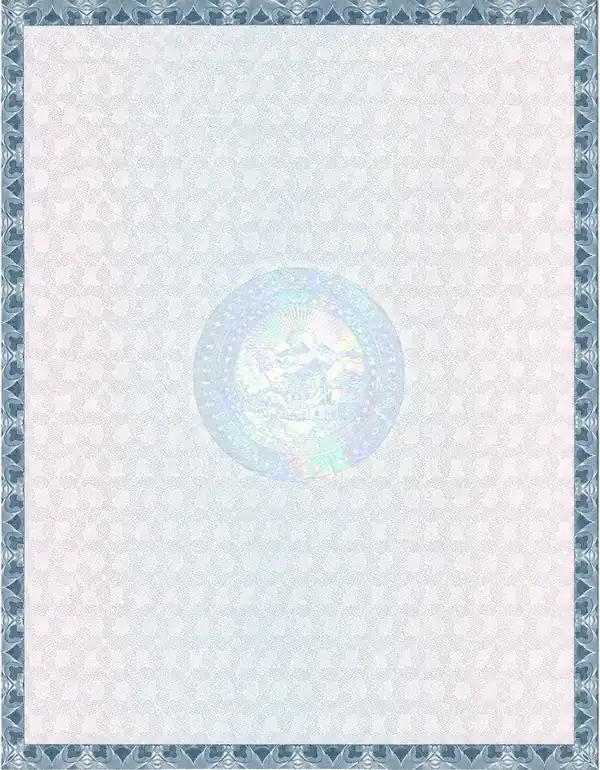
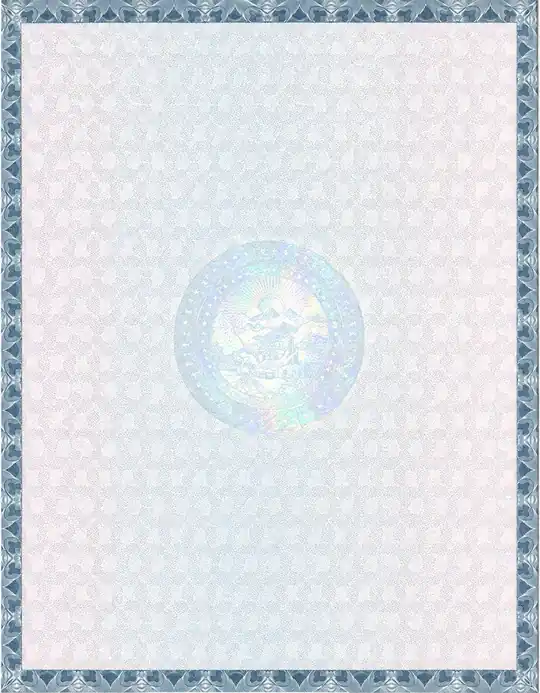
Certificate typography pass: Malevice body font, DM Sans site-wide, bigger signatures, seal layering/opacity
- Malevice Inkbleed for all certificate text except the signature itself
  (stays Dalton White), self-hosted + subset to used glyphs (15KB -> 11KB)
- DM Sans self-hosted for the form/site UI (consolidated to 400+600 only,
  dropped the unused 500 weight - button reuses 600/semibold)
- Signature text size nearly doubled (16/19px -> 28/34px) with truncate
  safety for long names, 10px breathing room above/below added
- Seal now renders below the text layer (was on top, now sits between the
  certificate body and the overlay) at 65% opacity
- Signature caption contrast fixed (slate-400 -> 500) and bottom margin
  increased so it clears the ornate border
- Recompressed certificate-bg further (56KB -> 36KB) to offset the two new
  always-loaded fonts and stay under the page-weight budget (488KB total)

Changed region(s): [[0.0, 0.9697, 0.0296, 1.0]]

diff --git a/src/components/CertificateOverlay.tsx b/src/components/CertificateOverlay.tsx
@@ -24,7 +24,10 @@ export const CertificateOverlay: React.FC<{ values: Values; certKey?: string; sh
   const brideSignature = v('bride-signature');
 
   return (
-    <div className="pointer-events-none absolute inset-0 flex select-none flex-col px-[8%] pt-[10%] pb-[5%] font-serif">
+    <div
+      className="pointer-events-none absolute inset-0 flex select-none flex-col px-[8%] pt-[10%] pb-[12%]"
+      style={{ fontFamily: "'Malevice Inkbleed', serif" }}
+    >
       {certKey && (
         <p className="absolute right-[6%] top-[4%] font-mono text-[6.5px] tracking-wide text-slate-400 sm:text-[7.5px]">
           No. {certKey}
@@ -78,25 +81,25 @@ export const CertificateOverlay: React.FC<{ values: Values; certKey?: string; sh
         </div>
 
         <div className="grid grid-cols-2 gap-x-[6%] text-left">
-          <div className="border-t border-slate-400 pt-[4px]">
+          <div className="border-t border-slate-400 pt-[10px]">
             <p
-              className={groomSignature?.trim() ? 'text-[16px] leading-[1.4] text-slate-800 sm:text-[19px]' : 'text-[10px] italic text-slate-300 sm:text-[12px]'}
+              className={groomSignature?.trim() ? 'truncate text-[28px] leading-[1.3] text-slate-800 sm:text-[34px]' : 'text-[10px] italic text-slate-300 sm:text-[12px]'}
               style={groomSignature?.trim() ? { fontFamily: "'Dalton White', cursive" } : undefined}
             >
               {groomSignature?.trim() || 'Groom signature'}
             </p>
-            <p className="mt-[3px] text-[7.5px] uppercase tracking-wide text-slate-400 sm:text-[8.5px]">
+            <p className="mt-[10px] text-[7.5px] uppercase tracking-wide text-slate-500 sm:text-[8.5px]">
               Signature of Groom
             </p>
           </div>
-          <div className="border-t border-slate-400 pt-[4px]">
+          <div className="border-t border-slate-400 pt-[10px]">
             <p
-              className={brideSignature?.trim() ? 'text-[16px] leading-[1.4] text-slate-800 sm:text-[19px]' : 'text-[10px] italic text-slate-300 sm:text-[12px]'}
+              className={brideSignature?.trim() ? 'truncate text-[28px] leading-[1.3] text-slate-800 sm:text-[34px]' : 'text-[10px] italic text-slate-300 sm:text-[12px]'}
               style={brideSignature?.trim() ? { fontFamily: "'Dalton White', cursive" } : undefined}
             >
               {brideSignature?.trim() || 'Bride signature'}
             </p>
-            <p className="mt-[3px] text-[7.5px] uppercase tracking-wide text-slate-400 sm:text-[8.5px]">
+            <p className="mt-[10px] text-[7.5px] uppercase tracking-wide text-slate-500 sm:text-[8.5px]">
               Signature of Bride
             </p>
           </div>

diff --git a/src/pages/CertificateViewPage.tsx b/src/pages/CertificateViewPage.tsx
@@ -49,7 +49,17 @@ export const CertificateViewPage: React.FC = () => {
           draggable={false}
           className="absolute inset-0 h-full w-full select-none object-contain"
         />
+        <img
+          src="/assets/seal.webp"
+          alt="Meridian registry seal"
+          draggable={false}
+          className="absolute left-1/2 top-1/2 h-24 w-24 select-none opacity-65 md:h-32 md:w-32"
+          style={{
+            transform: `translate(-50%, -50%) translate(${sealX}px, ${sealY}px) rotate(${cert.seal.rotation}deg) scale(${cert.seal.scale})`,
+          }}
+        />
         <div
+          className="pointer-events-none"
           style={{
             position: 'absolute',
             top: certificateRect.top,
@@ -64,15 +74,6 @@ export const CertificateViewPage: React.FC = () => {
             shareUrl={`${window.location.origin}/cert/id.${cert.id}`}
           />
         </div>
-        <img
-          src="/assets/seal.webp"
-          alt="Meridian registry seal"
-          draggable={false}
-          className="absolute left-1/2 top-1/2 h-24 w-24 select-none md:h-32 md:w-32"
-          style={{
-            transform: `translate(-50%, -50%) translate(${sealX}px, ${sealY}px) rotate(${cert.seal.rotation}deg) scale(${cert.seal.scale})`,
-          }}
-        />
       </div>
       <Link to="/" className="text-xs text-zinc-400 underline underline-offset-2 hover:text-zinc-600">
         Generate your own certificate

diff --git a/src/App.tsx b/src/App.tsx
@@ -113,7 +113,17 @@ export const App: React.FC = () => {
           draggable={false}
           className="absolute inset-0 h-full w-full select-none object-contain"
         />
+        <img
+          key="seal-image"
+          ref={sealRef}
+          src="/assets/seal.webp"
+          alt="Meridian registry seal"
+          draggable={false}
+          className="absolute left-1/2 top-1/2 h-24 w-24 touch-none select-none cursor-grab opacity-65 md:h-32 md:w-32"
+          style={{ transform: 'translate(-50%, -50%)' }}
+        />
         <div
+          className="pointer-events-none"
           style={{
             position: 'absolute',
             top: certificateRect.top,
@@ -124,15 +134,6 @@ export const App: React.FC = () => {
         >
           <LiveCertificateOverlay />
         </div>
-        <img
-          key="seal-image"
-          ref={sealRef}
-          src="/assets/seal.webp"
-          alt="Meridian registry seal"
-          draggable={false}
-          className="absolute left-1/2 top-1/2 h-24 w-24 touch-none select-none cursor-grab md:h-32 md:w-32"
-          style={{ transform: 'translate(-50%, -50%)' }}
-        />
       </div>
       <div className="flex-1 px-6 py-[15px] sm:px-10 lg:px-14 md:h-[calc(100dvh-30px)] md:overflow-y-auto [-ms-overflow-style:none] [scrollbar-width:none] [&::-webkit-scrollbar]:hidden">
         <RegistryForm />

diff --git a/src/index.css b/src/index.css
@@ -10,9 +10,33 @@
   font-display: swap;
 }
 
+@font-face {
+  font-family: 'Malevice Inkbleed';
+  src: url('/fonts/malevice-inkbleed.woff2') format('woff2');
+  font-weight: normal;
+  font-style: normal;
+  font-display: swap;
+}
+
+@font-face {
+  font-family: 'DM Sans';
+  src: url('/fonts/dm-sans-400.woff2') format('woff2');
+  font-weight: 400;
+  font-style: normal;
+  font-display: swap;
+}
+
+@font-face {
+  font-family: 'DM Sans';
+  src: url('/fonts/dm-sans-600.woff2') format('woff2');
+  font-weight: 600;
+  font-style: normal;
+  font-display: swap;
+}
+
 @layer base {
   body {
-    font-family: 'Plus Jakarta Sans', system-ui, -apple-system, BlinkMacSystemFont, 'Segoe UI', Roboto, sans-serif;
+    font-family: 'DM Sans', system-ui, -apple-system, BlinkMacSystemFont, 'Segoe UI', Roboto, sans-serif;
     background-color: #ffffff;
     color: #000000;
     overflow-x: hidden;

diff --git a/src/components/RegistryForm.tsx b/src/components/RegistryForm.tsx
@@ -176,7 +176,7 @@ export const RegistryForm: React.FC = () => {
       <button
         type="submit"
         disabled={submitting}
-        className="flex w-full items-center justify-center gap-2 rounded-md bg-zinc-900 px-6 py-3 text-sm font-medium text-white transition-colors duration-200 ease-out hover:bg-zinc-700 disabled:cursor-not-allowed disabled:opacity-60"
+        className="flex w-full items-center justify-center gap-2 rounded-md bg-zinc-900 px-6 py-3 text-sm font-semibold text-white transition-colors duration-200 ease-out hover:bg-zinc-700 disabled:cursor-not-allowed disabled:opacity-60"
       >
         <img src="/assets/gavel-white.png" alt="" className="h-4 w-4" />
         {submitting ? 'Generating...' : 'Generate Certificate'}
